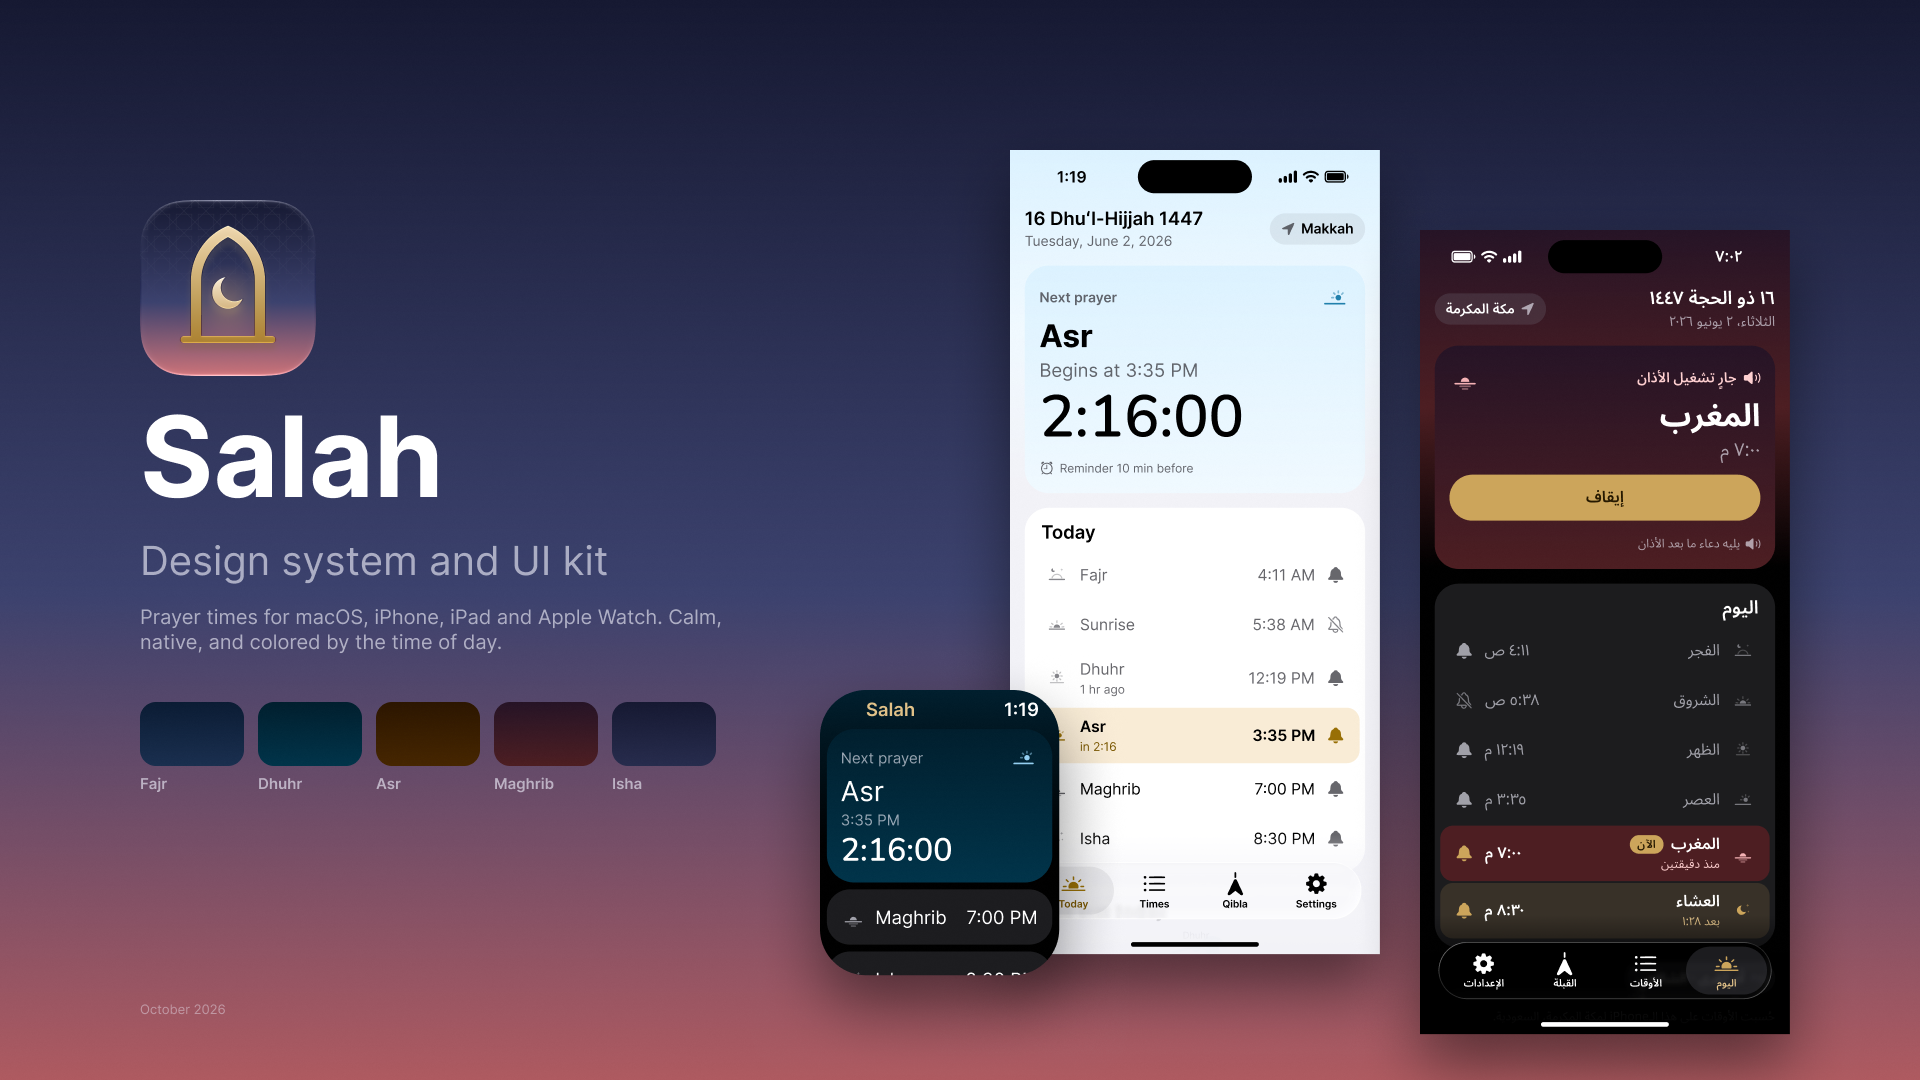
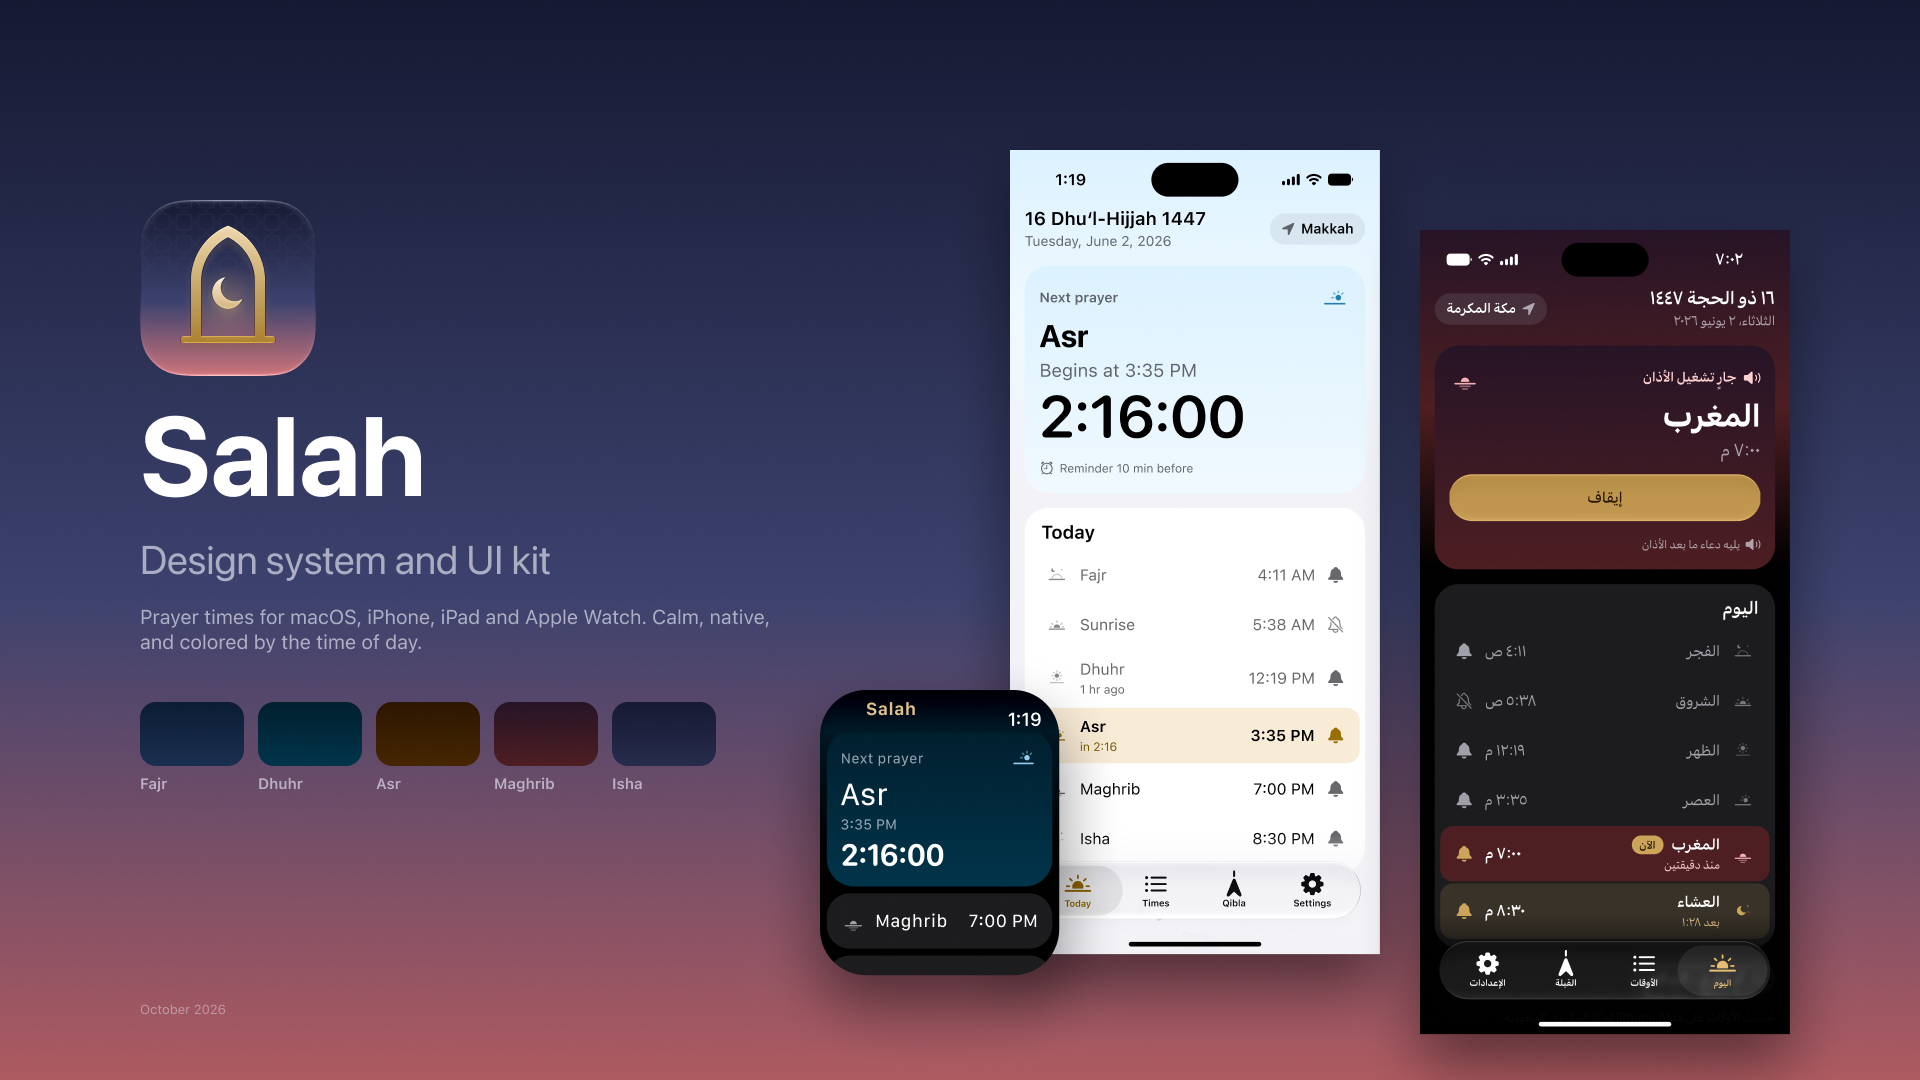
Render the previews with Apple's components and fonts
The System references in the Figma file are now Apple's own components
from Apple's design resources, so the previews show them, rendered in
Apple's fonts with the Typeface collection in its SF modes. Each image
keeps its pixel size.

The README says which text keeps the stand-in fonts and that Apple's
components need Figma's desktop app on a Mac with Apple's fonts.

diff --git a/Design/README.md b/Design/README.md
@@ -397,10 +397,16 @@ digits it shows.
 
 ## Fonts in the Figma file
 
-The Figma file draws text with stand-in fonts so it renders on any machine: Inter for SF
-Pro and SF Compact, Nunito for the rounded designs, and Noto Sans Arabic for Arabic. Its
-Typeface collection switches every style to Apple's fonts (SF Pro, SF Pro Rounded,
-SF Compact, SF Compact Rounded and SF Arabic) when they're installed.
+Salah's own text styles store stand-in fonts, so they render on any machine: Inter for SF
+Pro and SF Compact, Nunito for the rounded designs, and Noto Sans Arabic for Arabic. The
+file's Typeface collection switches every style to Apple's fonts (SF Pro, SF Pro Rounded,
+SF Compact, SF Compact Rounded, SF Arabic and SF Arabic Rounded) when they're installed.
+
+The system controls and bars on the screens (status bars, tab and navigation bars,
+toggles, buttons, alerts, the menu bar and the rest of the System references page) are
+Apple's own components, from Apple's iOS and iPadOS, macOS and watchOS design resources.
+They always draw in Apple's fonts, so open the file in Figma's desktop app on a Mac with
+SF Pro, SF Compact and SF Arabic installed to see them as designed.
 
 Code always uses the system font, so the stand-ins never ship. The typography tokens name
 the Apple fonts. Arabic text renders in SF Arabic and SF Arabic Rounded, which the system
@@ -408,8 +414,10 @@ picks; there's no separate Arabic token file.
 
 ## Previews
 
-`Previews/` holds a few rendered screens, for reading this folder without Figma. They use
-real times: Makkah on 2 June 2026 with Umm al-Qura, unless the image shows otherwise.
+`Previews/` holds a few rendered screens, for reading this folder without Figma. They show
+Apple's system components and are rendered in Apple's fonts, with the Typeface collection
+in its SF modes. They use real times: Makkah on 2 June 2026 with Umm al-Qura, unless the
+image shows otherwise.
 
 - `cover.png`: the cover of the library.
 - `iphone-today.png`: Today on iPhone, in English and Arabic, light and dark.
